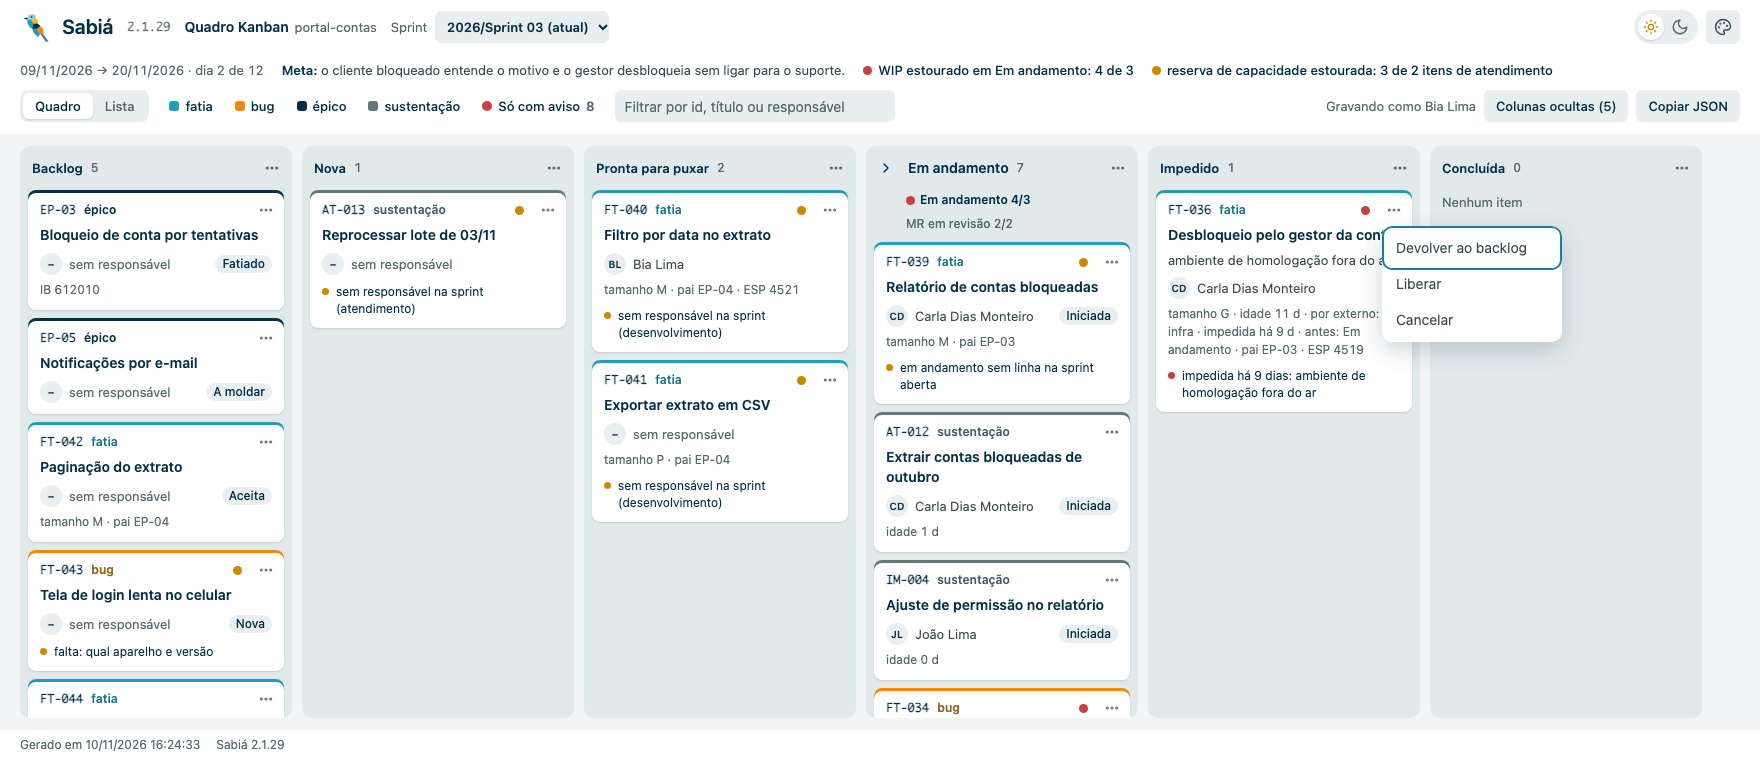
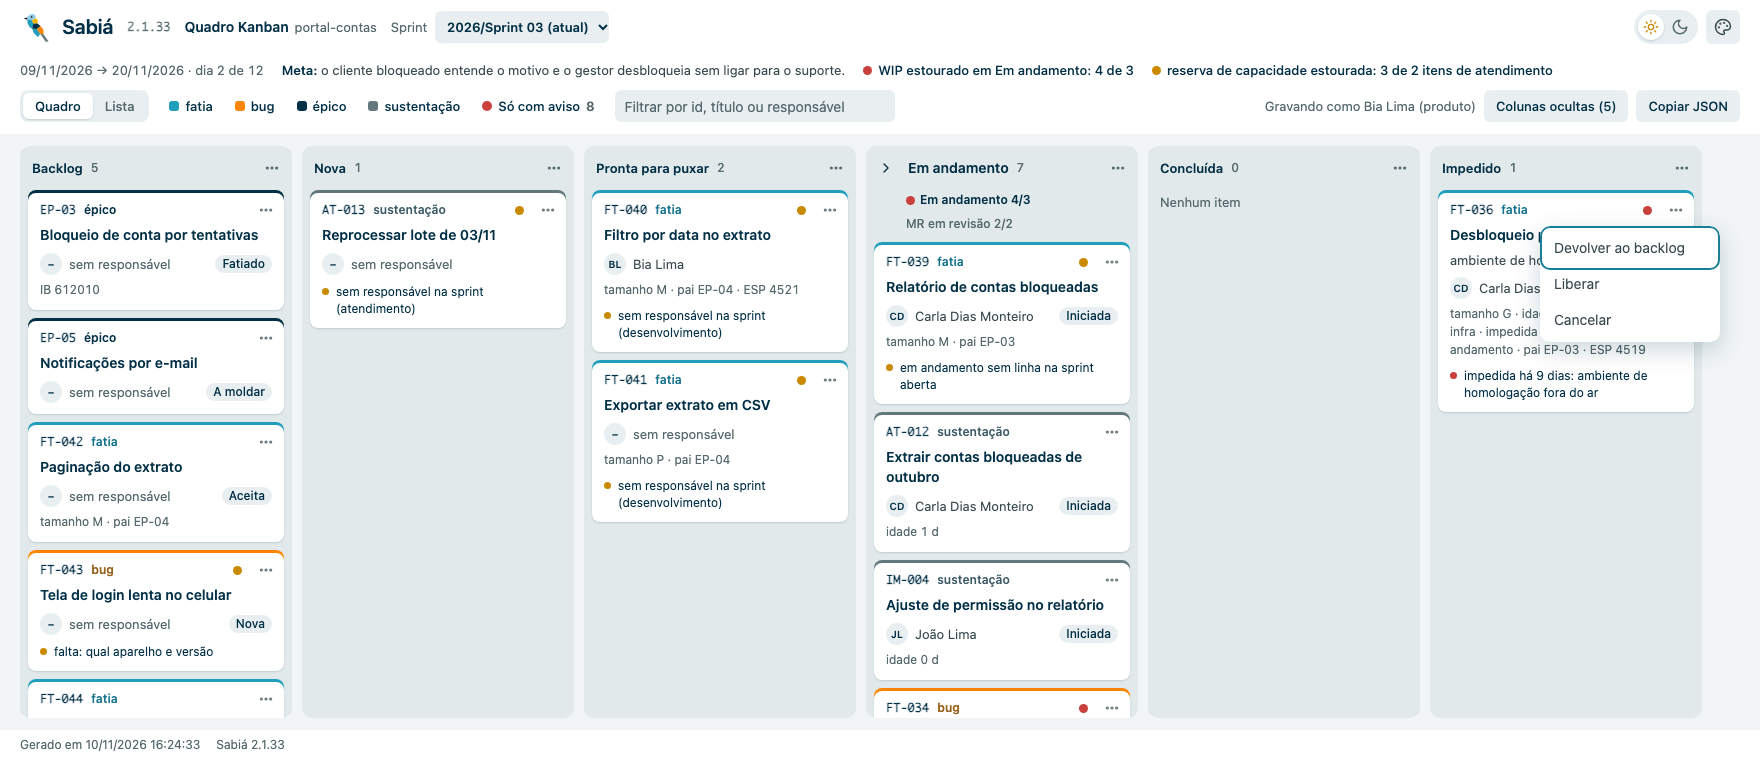
site: capturas do Kanban na 2.1.33 (Concluída antes de Impedido, quem está no quadro)

Changed region(s): [[0.6562, 0.2118, 0.9688, 0.5447], [0.7188, 0.1211, 0.8438, 0.1513]]

diff --git a/kanban.html b/kanban.html
@@ -44,7 +44,7 @@ npx sabia kanban --porta 5000        # padrão: 4780 (ocupada, usa uma livre)</p
     <p class="phnote">O comando sobe um servidor local e escreve o link no terminal; é só clicar. Cada vez que a página carrega, ele lê o projeto de novo. Com <kbd>Ctrl</kbd>+<kbd>C</kbd> o servidor fecha e a página avisa que o quadro foi encerrado. Nada sai da máquina além do commit que você confirma.</p>
 
     <h3>O quadro</h3>
-    <figure class="fig"><img src="img/kanban-quadro.png" width="1760" height="980" alt="Quadro Kanban com as raias Backlog, Nova, Pronta para puxar, Em andamento, Impedido e Concluída, e cards com bolinhas de aviso" loading="lazy"><figcaption>A sprint atual, com o Em andamento recolhido numa raia só.</figcaption></figure>
+    <figure class="fig"><img src="img/kanban-quadro.png" width="1760" height="980" alt="Quadro Kanban com as raias Backlog, Nova, Pronta para puxar, Em andamento, Concluída e Impedido, e cards com bolinhas de aviso" loading="lazy"><figcaption>A sprint atual, com o Em andamento recolhido numa raia só.</figcaption></figure>
     <ul>
       <li><b>Raias:</b> Backlog (o que ainda não entrou na sprint escolhida), os status do <code>backlog.md</code>, o grupo Em andamento, Concluída, Impedido e Cancelada.</li>
       <li><b>Sprint:</b> o combo do topo lista as sprints, da atual para a primeira.</li>
